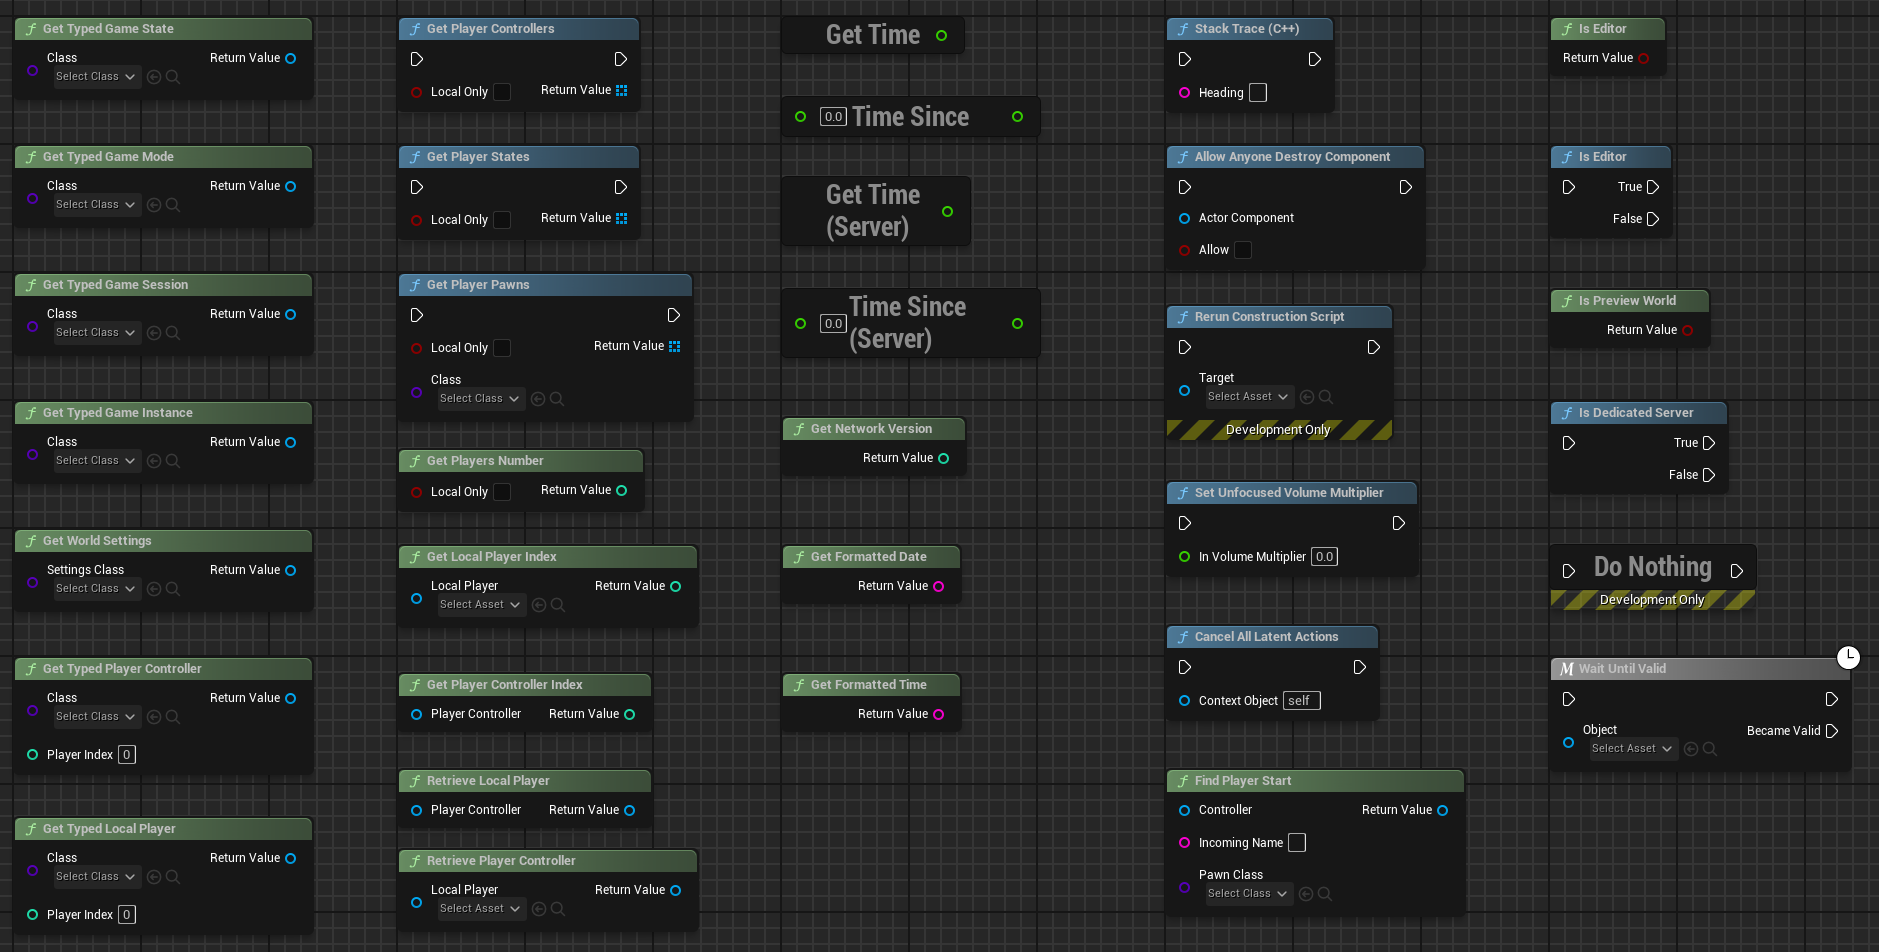
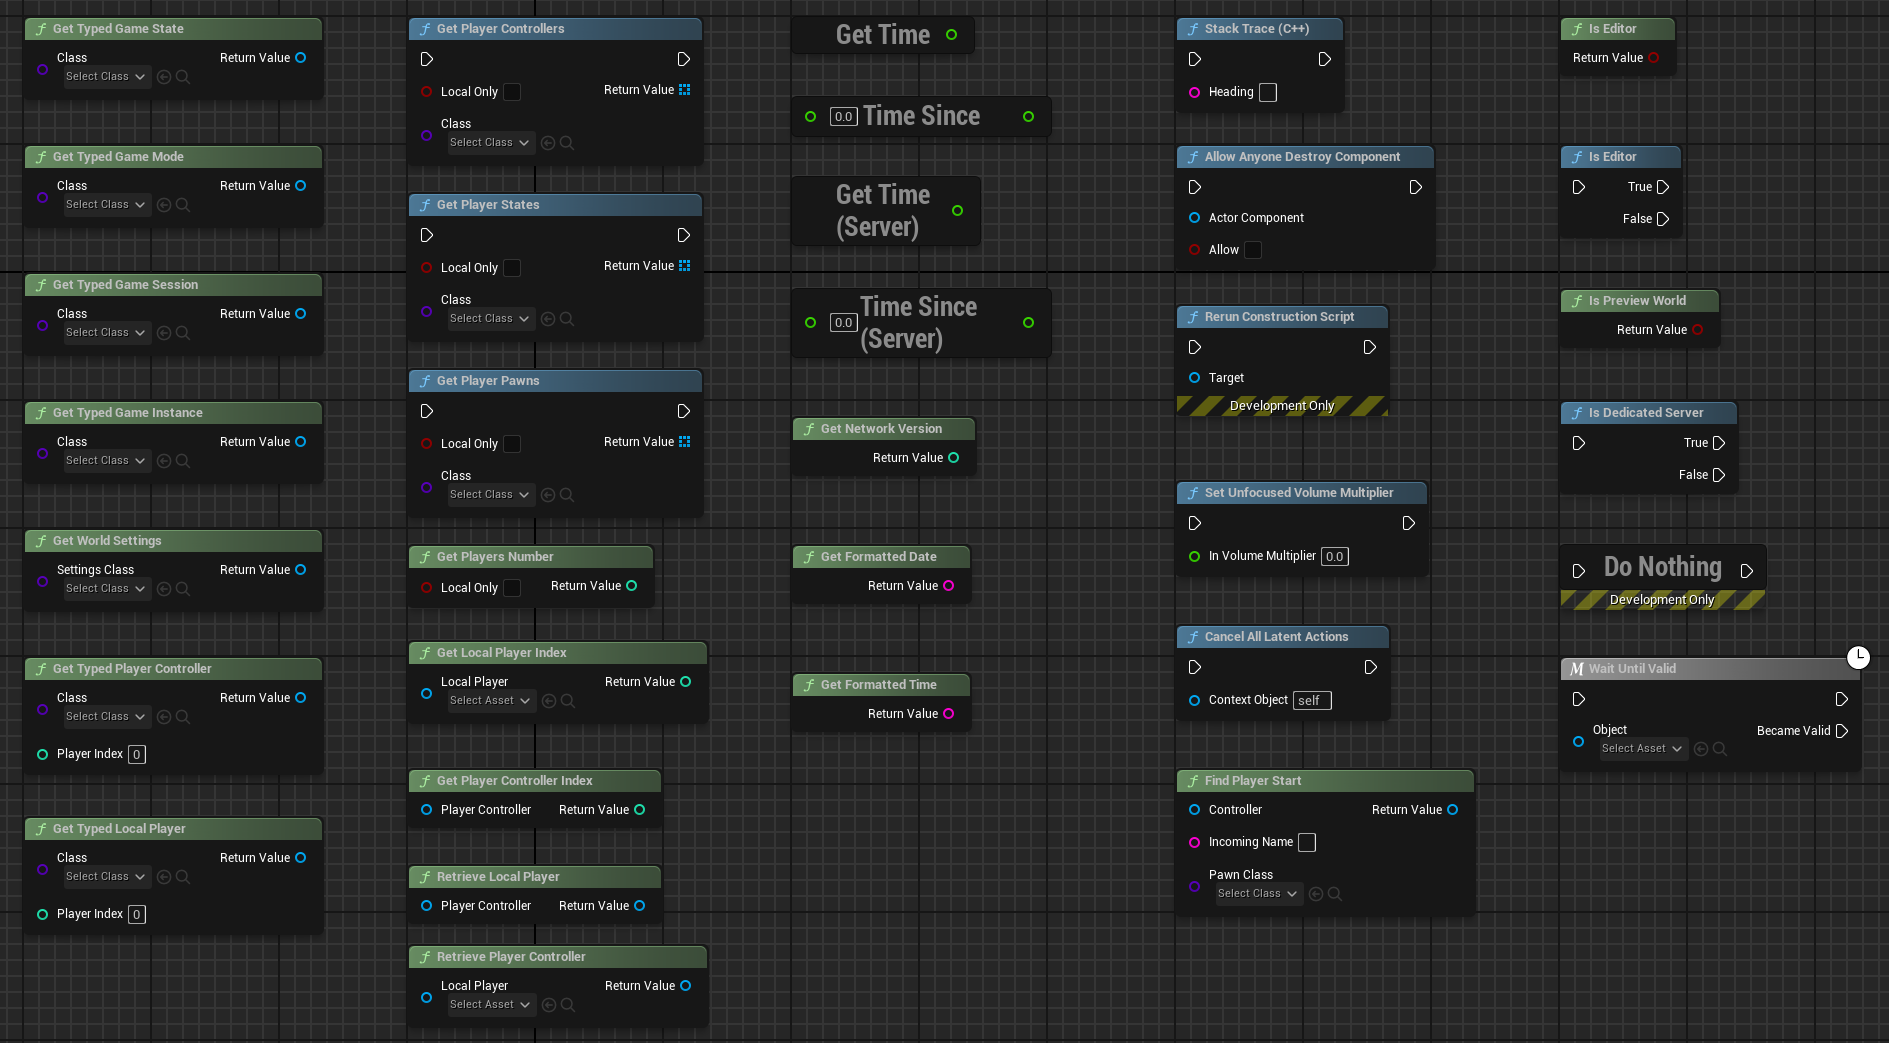
fix wrong structure

diff --git a/Plugins/TonetfalCommonUtilities/Source/TonetfalCommonUtilities/Private/TCU_Library.cpp b/Plugins/TonetfalCommonUtilities/Source/TonetfalCommonUtilities/Private/TCU_Library.cpp
@@ -83,7 +83,8 @@ ULocalPlayer* UTCU_Library::GetTypedLocalPlayer(const UObject* ContextObject, TS
 #pragma endregion
 
 #pragma region Player
-TArray<APlayerController*> UTCU_Library::GetPlayerControllers(const UObject* ContextObject, bool bLocalOnly)
+TArray<APlayerController*> UTCU_Library::GetPlayerControllers(const UObject* ContextObject, bool bLocalOnly,
+	TSubclassOf<APlayerController> Class)
 {
 	TArray<APlayerController*> ReturnValue;
 
@@ -106,6 +107,11 @@ TArray<APlayerController*> UTCU_Library::GetPlayerControllers(const UObject* Con
 				}
 			}
 
+			if (!PlayerController->IsA(Class))
+			{
+				continue;
+			}
+
 			ReturnValue.Add(PlayerController);
 		}
 	}
@@ -113,7 +119,8 @@ TArray<APlayerController*> UTCU_Library::GetPlayerControllers(const UObject* Con
 	return ReturnValue;
 }
 
-TArray<APlayerState*> UTCU_Library::GetPlayerStates(const UObject* ContextObject, bool bLocalOnly)
+TArray<APlayerState*> UTCU_Library::GetPlayerStates(const UObject* ContextObject, bool bLocalOnly,
+	TSubclassOf<APlayerState> Class)
 {
 	TArray<APlayerState*> ReturnValue;
 
@@ -137,6 +144,11 @@ TArray<APlayerState*> UTCU_Library::GetPlayerStates(const UObject* ContextObject
 					{
 						continue;
 					}
+				}
+
+				if (!PlayerState->IsA(Class))
+				{
+					continue;
 				}
 
 				ReturnValue.Add(PlayerState);

diff --git a/Plugins/TonetfalCommonUtilities/Source/TonetfalCommonUtilities/Public/TCU_Library.h b/Plugins/TonetfalCommonUtilities/Source/TonetfalCommonUtilities/Public/TCU_Library.h
@@ -46,12 +46,14 @@ public:
 
 #pragma region Player
 	UFUNCTION(BlueprintPure="False", Category="Game|Player",
-		meta=(DefaultToSelf="ContextObject", HidePin="ContextObject"))
-	static TArray<APlayerController*> GetPlayerControllers(const UObject* ContextObject, bool bLocalOnly);
+		meta=(DefaultToSelf="ContextObject", HidePin="ContextObject", DeterminesOutputType="Class"))
+	static TArray<APlayerController*> GetPlayerControllers(const UObject* ContextObject, bool bLocalOnly,
+		TSubclassOf<APlayerController> Class);
 
 	UFUNCTION(BlueprintPure="False", Category="Game|Player",
-		meta=(DefaultToSelf="ContextObject", HidePin="ContextObject"))
-	static TArray<APlayerState*> GetPlayerStates(const UObject* ContextObject, bool bLocalOnly);
+		meta=(DefaultToSelf="ContextObject", HidePin="ContextObject", DeterminesOutputType="Class"))
+	static TArray<APlayerState*> GetPlayerStates(const UObject* ContextObject, bool bLocalOnly,
+		TSubclassOf<APlayerState> Class);
 
 	UFUNCTION(BlueprintPure="False", Category="Game|Player",
 		meta=(DefaultToSelf="ContextObject", HidePin="ContextObject", DeterminesOutputType="Class"))
